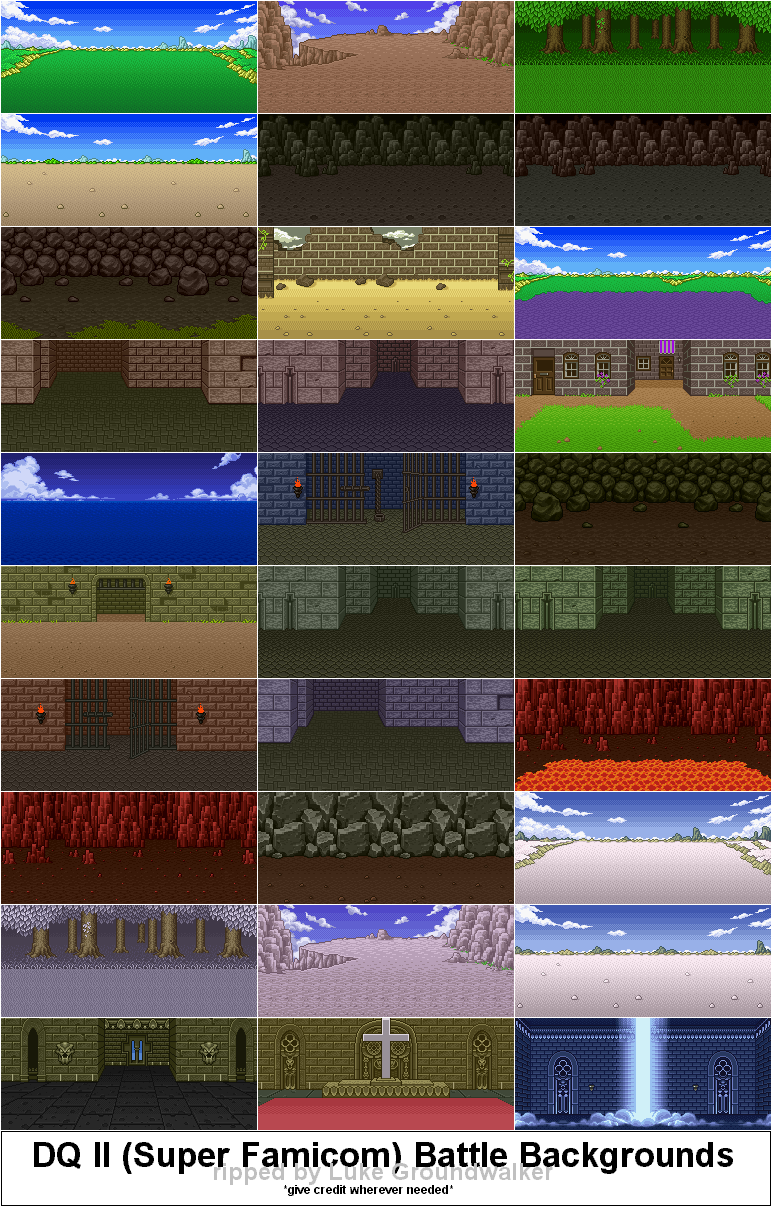
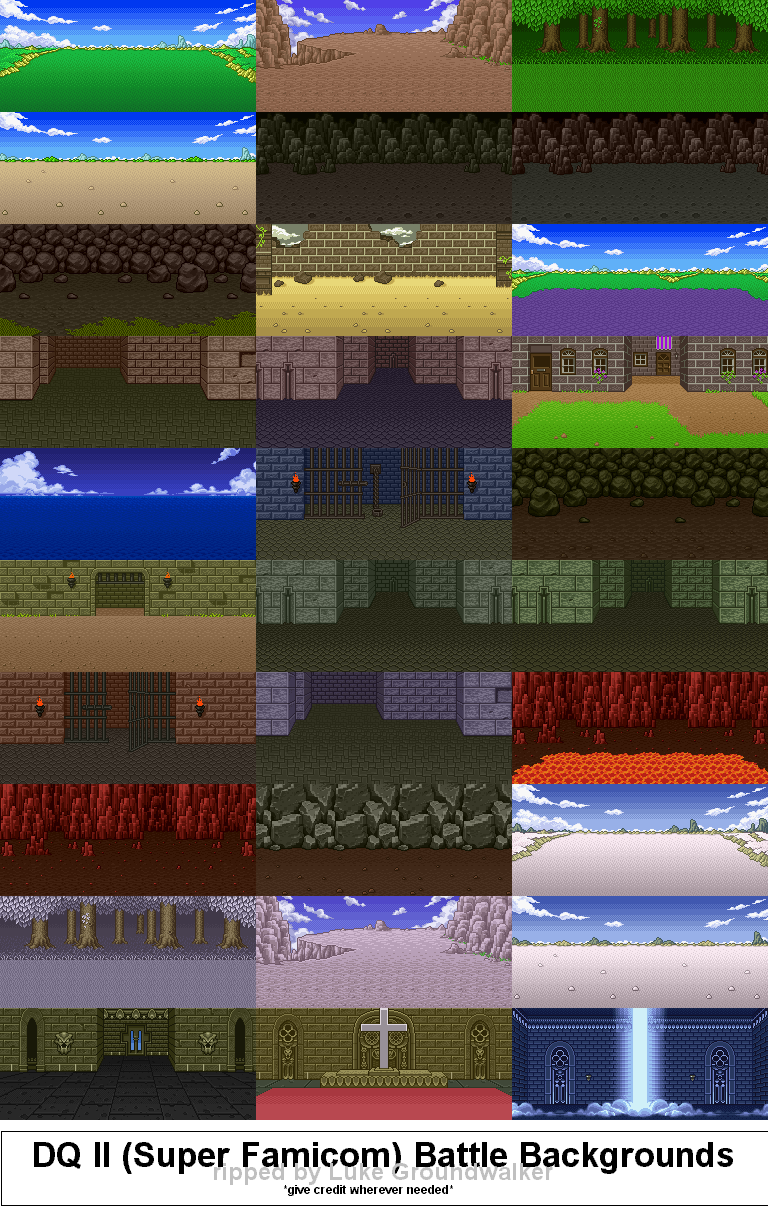
Fixed the spritesheet for the backgrounds, reworked the createJS spritesheet for the backgrounds to support random backgrounds

Changed region(s): [[0.0, 0.0, 1.0, 1.0]]

diff --git a/public/game/js/spritesheet.js b/public/game/js/spritesheet.js
@@ -31,12 +31,40 @@ function initSpriteSheets () {
  
   backgroundSheet = new createjs.SpriteSheet({
     "animations":
-      {
-        "plain": [0],
-        "forest": [2]
+      { //I commented out the maps that didn't work. 
+        "forest0": [0],
+        "mountain0": [1],
+        "forest1": [2],
+        "forest2": [3],
+        "mountain1": [4],
+        "mountain2": [5],
+        "forest3": [6],
+        "world0": [7],
+        //"sword8": [8],
+        "castle0": [9],
+        "castle1": [10],
+        "forest4": [11],
+        //"sword12": [12],
+        "castle2": [13],
+        "mountain3": [14],
+        "forest5": [15],
+        "castle3": [16],
+        "castle4": [17],
+        "castle5": [18],
+        "castle6": [19],
+        "world1": [20],
+        "mountain4": [21],
+        "mountain5": [22],
+        //"forest6": [23],
+        "forest6": [24],
+        "mountain6": [25],
+        //"sword6": [26],
+        "world2": [27],
+        //"sword8": [28],
+        "world3": [29]
       },
         "images": [preload.getResult("bgSprites")],
-        "frames": {width:257, height:112}
+        "frames": {width:256, height:112}
   });
   
   treasureSheet = new createjs.SpriteSheet({

diff --git a/public/game/js/init.js b/public/game/js/init.js
@@ -164,7 +164,7 @@ function initNightmaresList()
 
 function initEncounterView()
 {
-  var background = new createjs.Sprite(backgroundSheet, "forest");
+  var background = new createjs.Sprite(backgroundSheet, "forest4");
   background.scaleX = 3;
   background.scaleY = 3;
   
